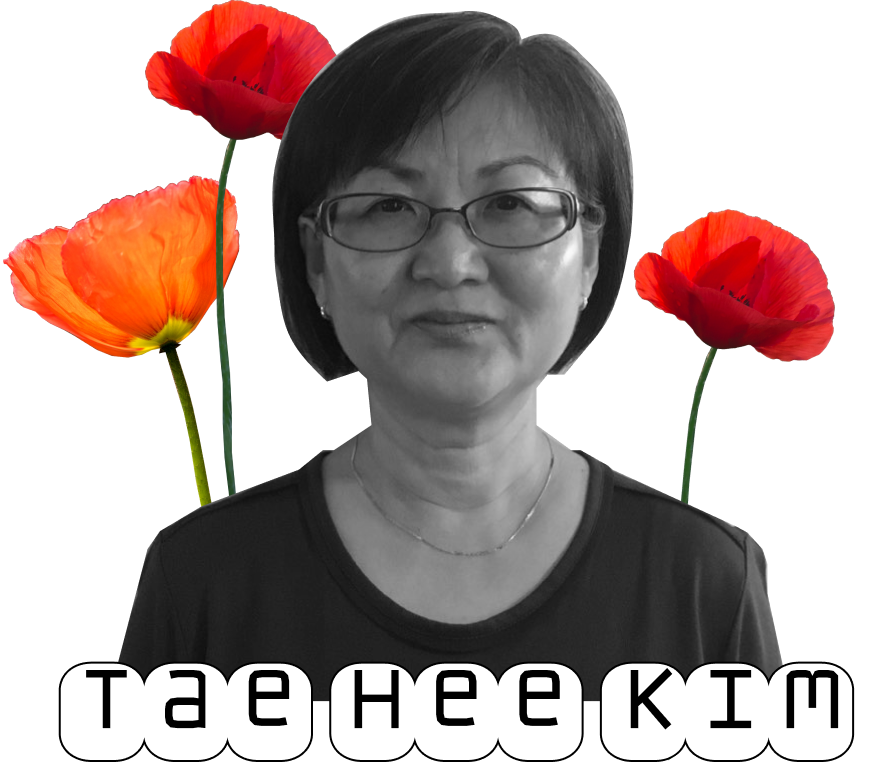
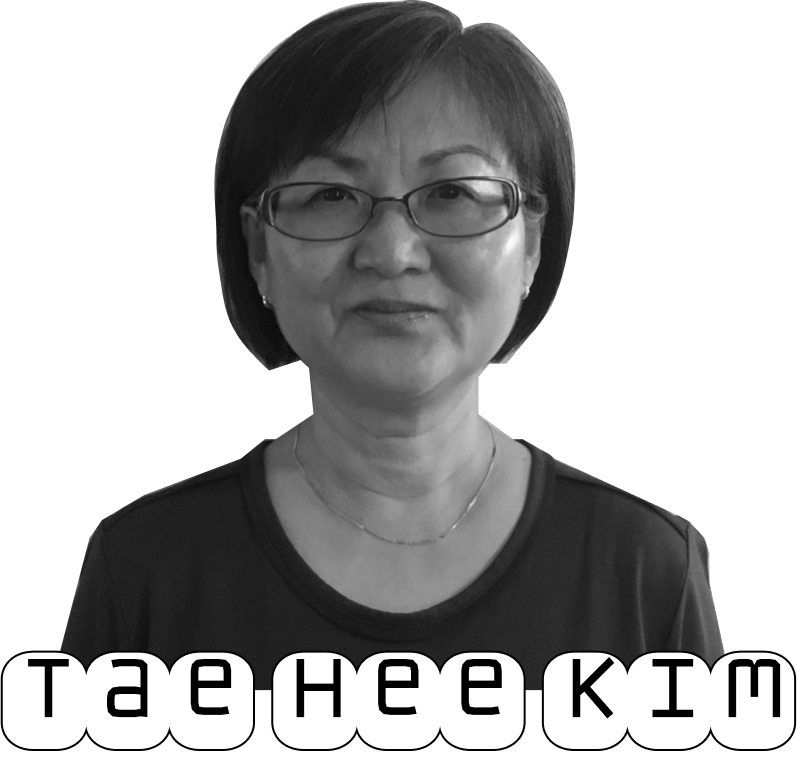
complete modflower

diff --git a/beliefs.html b/beliefs.html
@@ -68,8 +68,8 @@
         </p>
       </div></div>
 
-      <img src="images/flower_leaf.png" align="right" width=300px class="flower_right">
-      <img src="images/flower_leaf_left.png" align="left" width=300px class="flower_left">
+      <!-- <img src="images/flower_leaf.png" align="right" width=300px class="flower_right">
+      <img src="images/flower_leaf_left.png" align="left" width=300px class="flower_left"> -->
       <div class="text">
         <p><strong>I. The Scriptures</strong></p>
         <p>We believe that the Holy Bible is God’s word, and it contains the
@@ -118,9 +118,10 @@
 
       </div>
 
-      <div class="divider">
+      <!-- <div class="divider">
         <p><strong>. . .</strong></p>
-      </div>
+      </div> -->
+          <img src="images/flower_group.png" class="flowergroup">
 
     <footer class="foot">
       &#169; Grace Lee 2019

diff --git a/index.html b/index.html
@@ -114,11 +114,12 @@
         </div> -->
       </div>
     </div>
-
+<!--
     <div class="index_flower">
      <img src="images/flower_12.png" align="right" width=300px>
-   </div>
-
+   </div> -->
+    <img src="images/flower_group.png" class="flowergroup">
+    
     <footer class="foot">
       &#169; Grace Lee 2019
     </footer>

diff --git a/about.html b/about.html
@@ -107,6 +107,8 @@
               </div>
             </div>
           </div> -->
+          
+    <img src="images/flower_group.png" class="flowergroup">
 
     <footer class="foot">
       &#169; Grace Lee 2019
